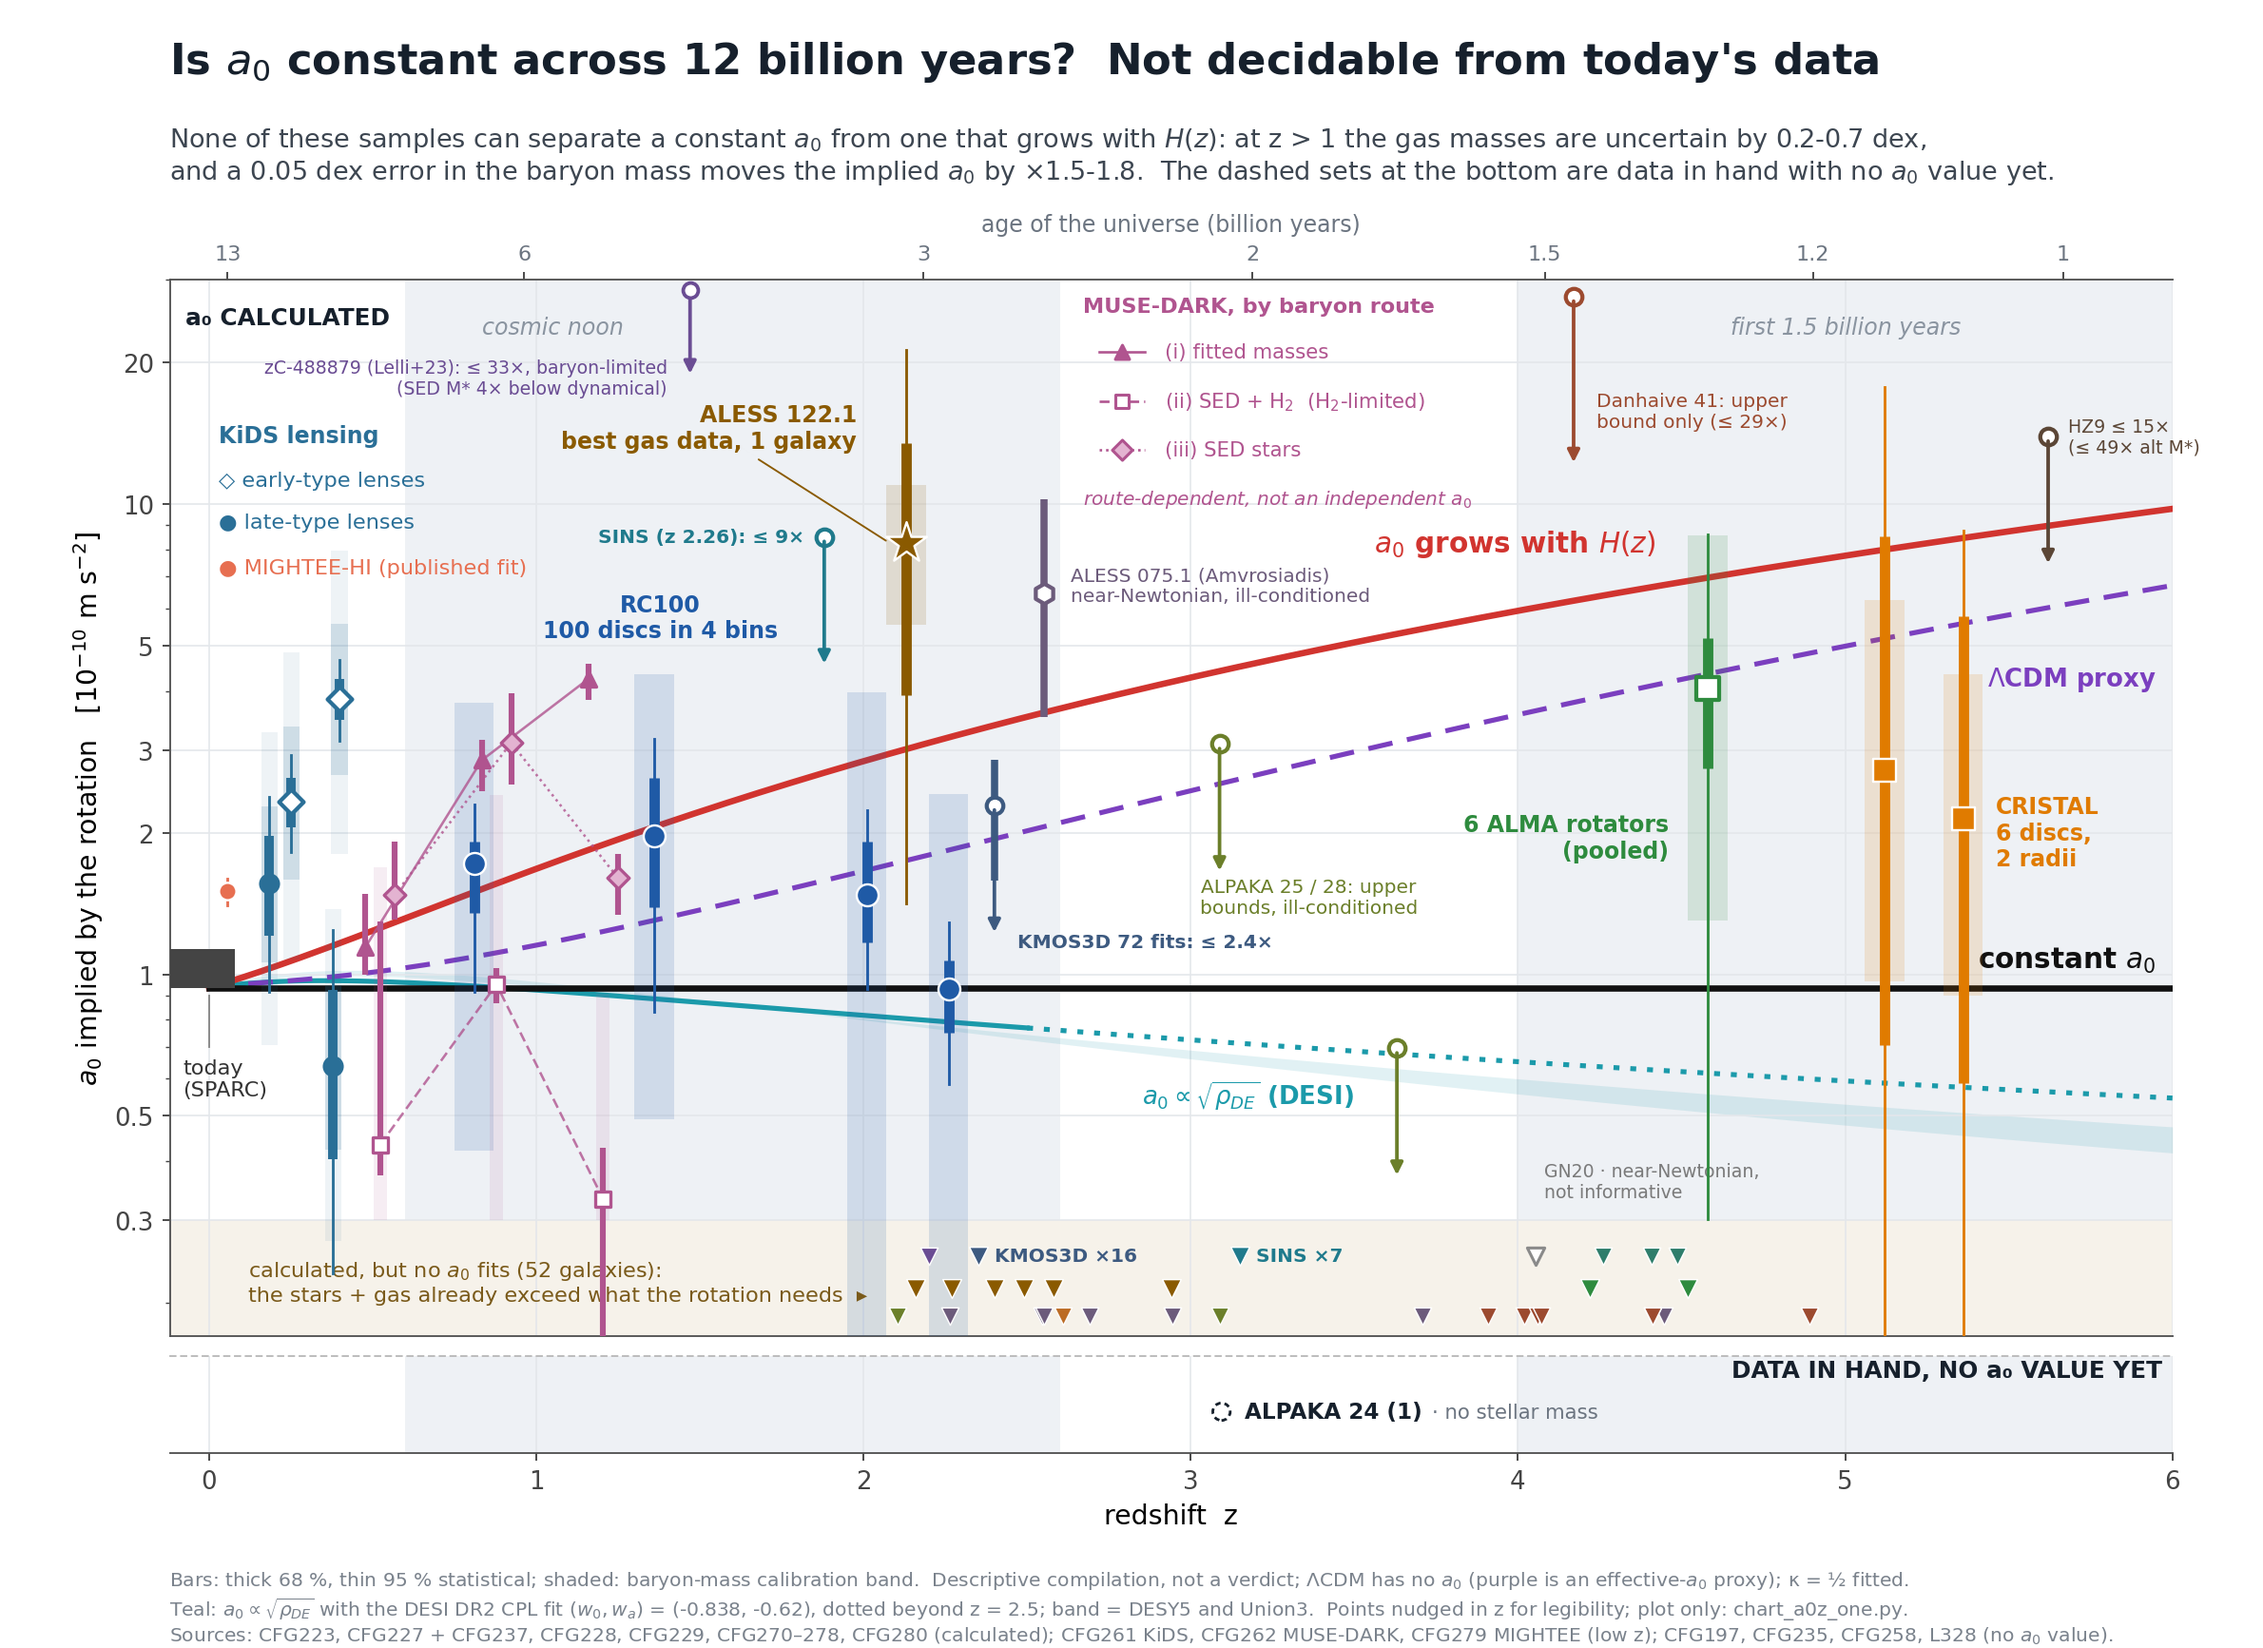
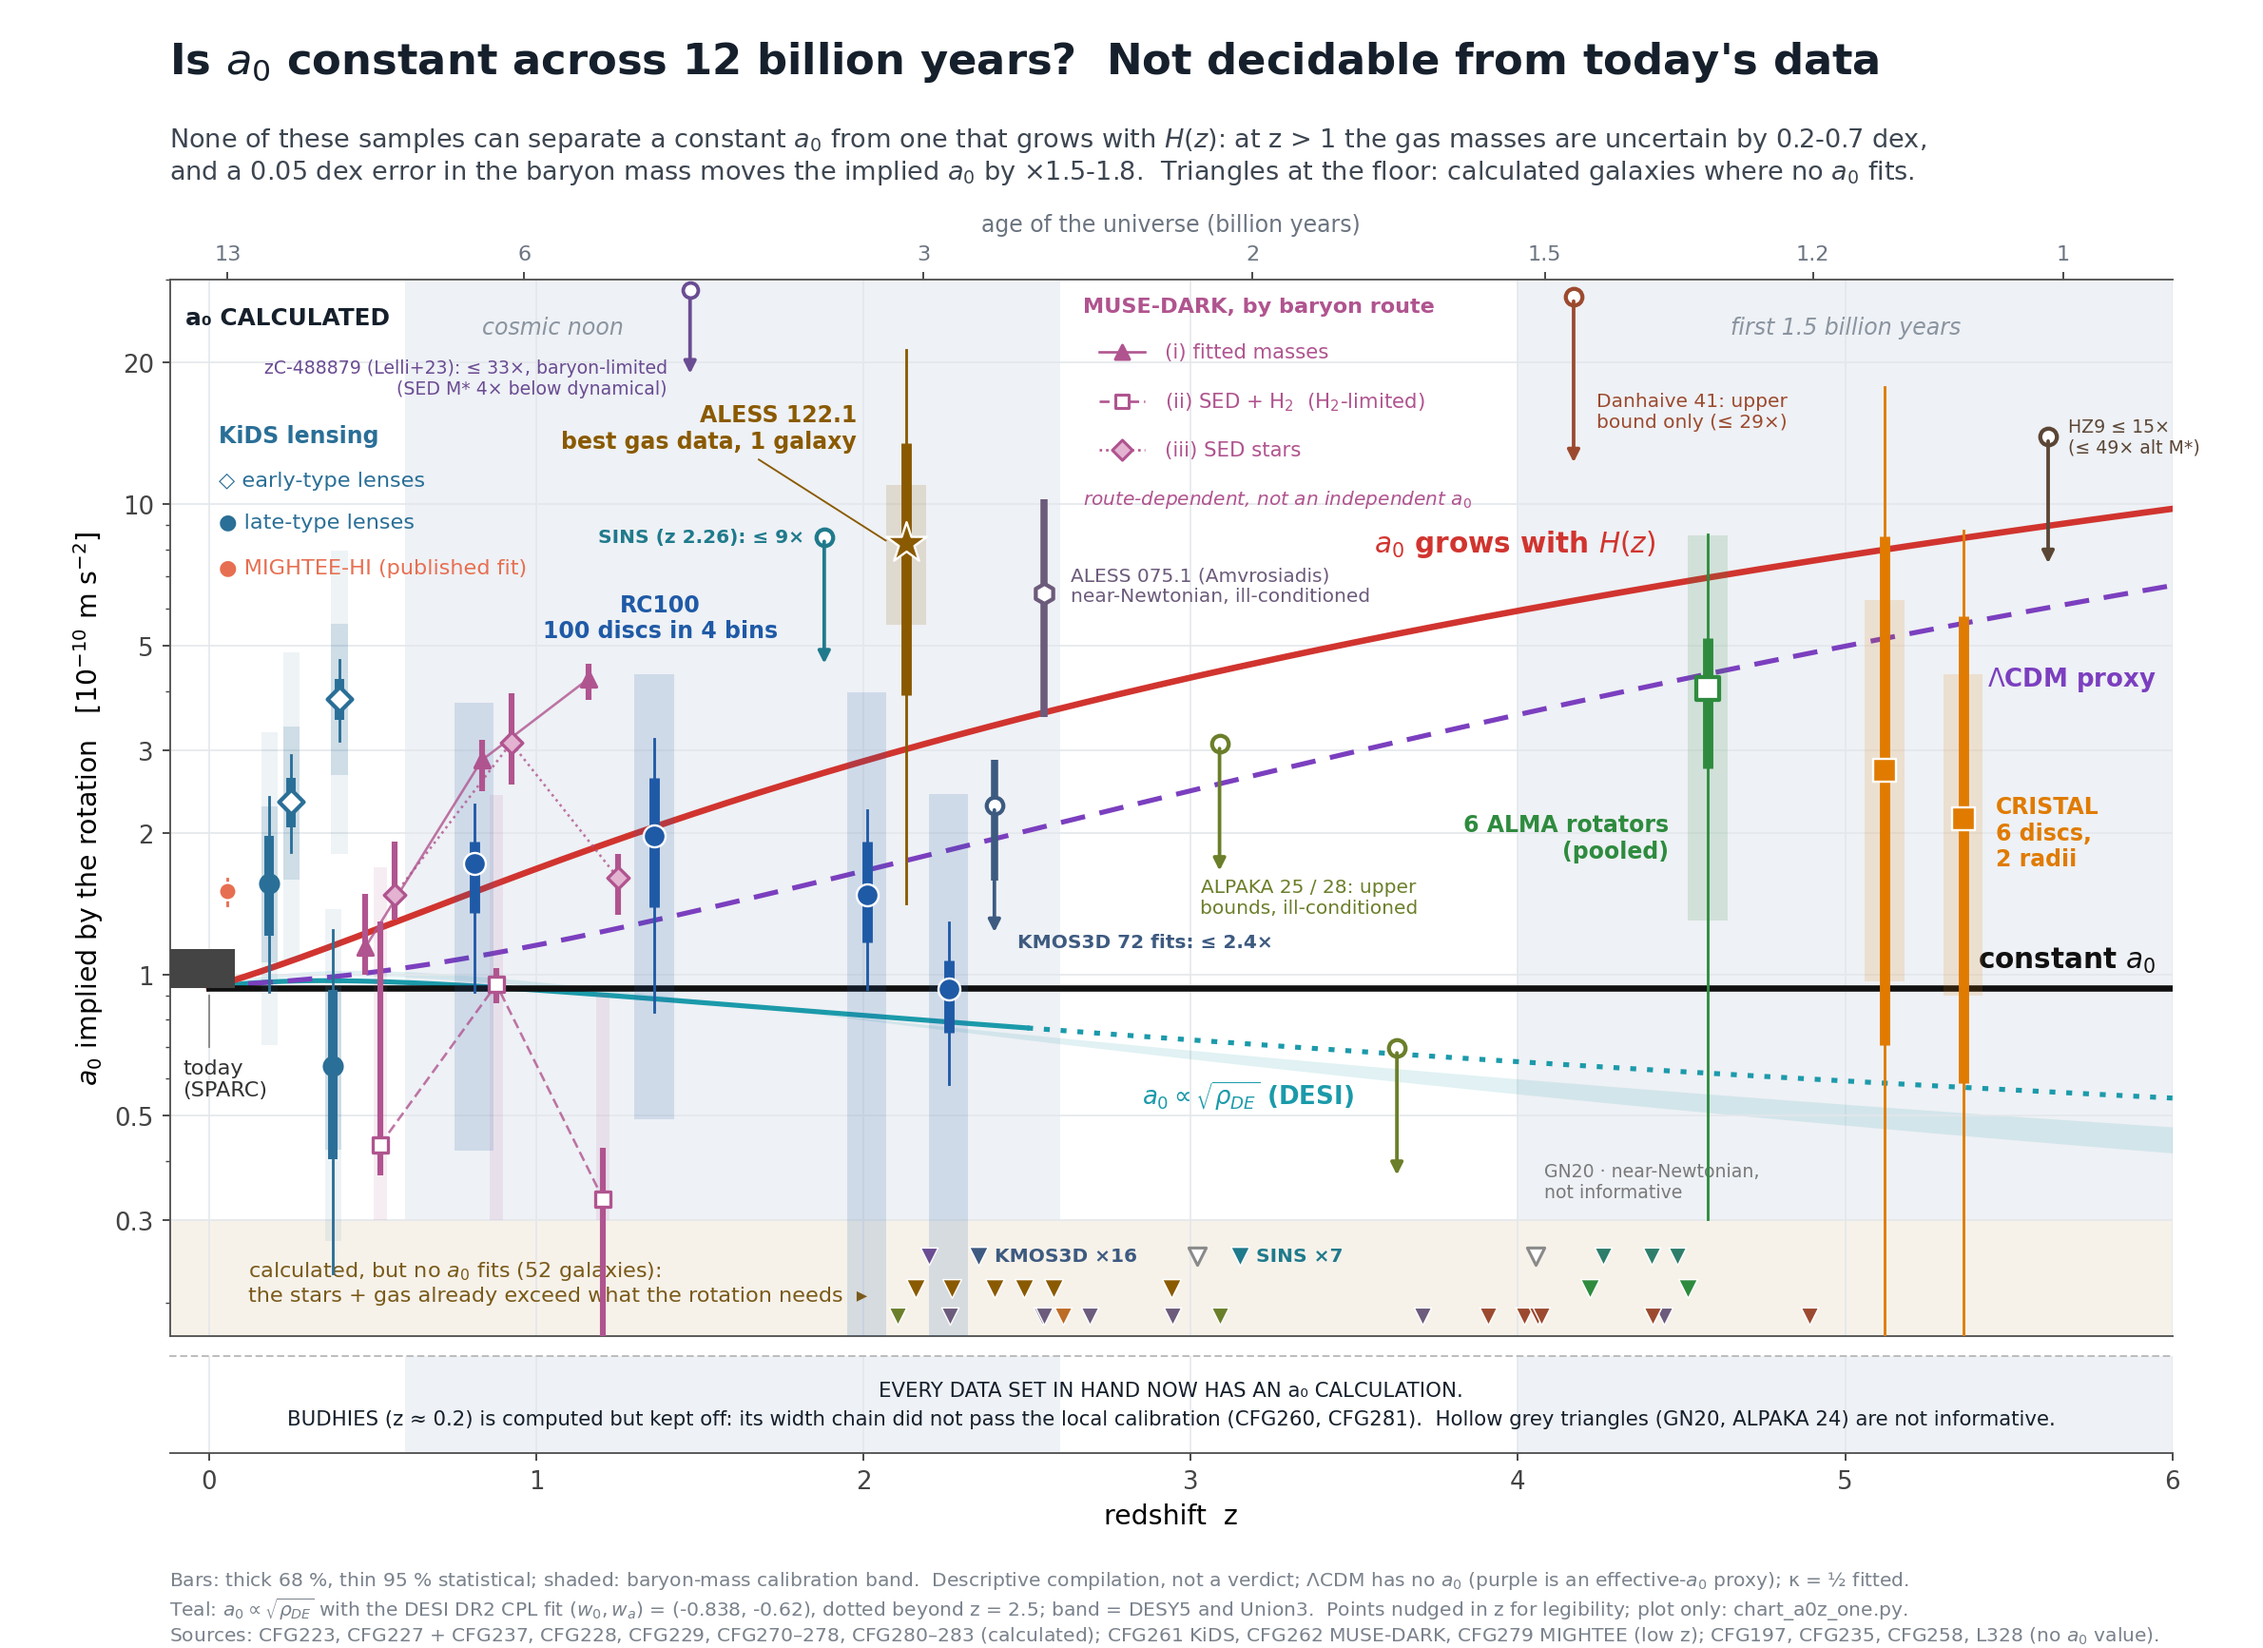
CHART one-chart: ALPAKA 24 from CFG283 (b20adfc0e) -- gas-only, measures alpha_CO not a0, hollow grey uninformative marker; the no-a0-yet strip is now empty and carries a closing note; floor count 52; 23/23 checks; plot only

diff --git a/campaign_fresh_gravity/CHART_a0z_rar_z0_5_2026-10-01/chart_a0z_one.py b/campaign_fresh_gravity/CHART_a0z_rar_z0_5_2026-10-01/chart_a0z_one.py
@@ -54,10 +54,10 @@ A275 = {r["object"]: r for r in csv.DictReader(open(os.path.join(CFG, "CFG275_pk
 A276 = {r["object"]: r for r in csv.DictReader(open(os.path.join(CFG, "CFG276_gn20", "cfg276_points_stageB.csv")))}   # CFG276 231d32a8c
 A278 = {r["object"]: r for r in csv.DictReader(open(os.path.join(CFG, "CFG278_lelli23_two_discs", "cfg278_points_stageB.csv")))}   # CFG278 9878bfcec
 A282 = {r["object"]: r for r in csv.DictReader(open(os.path.join(CFG, "CFG282_ro_stellar_masses", "cfg282_points_stageB.csv")))}   # CFG282 0f0ef264e
+A283 = {r["object"]: r for r in csv.DictReader(open(os.path.join(CFG, "CFG283_alpaka24_gas_only", "cfg283_points_stageB.csv")))}   # CFG283 b20adfc0e
 A273 = list(csv.DictReader(open(os.path.join(CFG, "CFG273_danhaive_gold41", "cfg273_points_stageB_relabelled.csv"))))   # CFG273 208944196 (relabelled: two ceiling rows)
 A274 = [r for r in csv.DictReader(open(os.path.join(CFG, "CFG274_amvrosiadis_eight_discs", "cfg274_points_stageB.csv"))) if "pooled" not in r["object"]]   # CFG274 255f07244
 TODO = [  # (label, zmin, zmax, short note)       sources: CFG227 'Listed, no point' + CFG237 + CFG258 + L328
-    ("ALPAKA 24 (1)", alp["24"], alp["24"], "no stellar mass"),
 ]
 
 P("chart_a0z_one: plot only")
@@ -74,6 +74,7 @@ check("CFG275 PKS 0529-549: chart row [CIG; CO] is a FLOOR (no root), 7 of 8 row
 check("CFG276 GN20: frozen row [stars+RT; Re] is a floor but uninformative (D 0.90) (231d32a8c)", A276["GN20 [stars+RT; Re]"]["no_root"] == "1")
 check("CFG278 Lelli+23: zC-400569 [stars+CO a=0.4] floor; zC-488879 [stars+CO a=0.4] <= 33.4 (9878bfcec)", A278["zC-400569 [stars+CO a=0.4]"]["no_root"] == "1" and abs(float(A278["zC-488879 [stars+CO a=0.4]"]["s_star"]) - 33.424) < 1e-2)
 check("CFG282 RO + SED M*: SGP38326-2 [gas+M* Ma19] and BRI1335-0417 [gas+M* T26] are floors (0f0ef264e)", A282["SGP38326-2 [gas+M* Ma19]"]["no_root"] == "1" and A282["BRI1335-0417 [gas+M* T26]"]["no_root"] == "1")
+check("CFG283 ALPAKA 24: gas-floor route vacuous (<= 27.6), Galactic route a floor (b20adfc0e)", A283["ALPAKA 24 ADF22.5 [gas floor]"]["no_root"] == "0" and A283["ALPAKA 24 ADF22.5 [gas Galactic]"]["no_root"] == "1")
 check("CFG273 Danhaive: 7 no root (relabelled file), pooled PALL <= 29.4 at z 4.17 (208944196)", sum(r["no_root"] == "1" for r in A273) == 7 and any("PALL" in r["object"] and abs(float(r["s_star"]) - 29.45) < 0.01 for r in A273), f"({sum(r['no_root'] == '1' for r in A273)} no root)")
 check("CFG272 ALPAKA: 13 and 23 no root; 25 <= 3.30 and 28 <= 0.74 upper bounds; 24 no M* (d993f02dc)", sorted(r["object"].split()[1] for r in A272 if r["no_root"] == "1") == ["13", "23"] and sorted(round(float(r["s_star"]), 2) for r in A272 if r["no_root"] == "0") == [0.74, 3.3], f"({len(A272)} rows)")
 check("CFG274 Amvrosiadis: 7 of 8 no root, ALESS 075.1 s* 6.89 (255f07244)", sum(r["no_root"] == "1" for r in A274) == 7 and any(r["no_root"] == "0" and abs(float(r["s_star"]) - 6.887) < 0.01 for r in A274), f"({sum(r['no_root'] == '1' for r in A274)} no root)")
@@ -211,6 +212,7 @@ zl8 = A278["zC-488879 [stars+CO a=0.4]"]   # <= 33.4: off the top of the axis; a
 ax.annotate("", xy=(1.47, 18.5), xytext=(1.47, 28.5), arrowprops=dict(arrowstyle="-|>", color=LLC, lw=1.6), zorder=6)
 ax.scatter([1.47], [28.5], marker="o", s=45, facecolor="white", edgecolor=LLC, linewidth=1.6, zorder=6, clip_on=False)
 ax.text(1.40, 18.5, "zC-488879 (Lelli+23): ≤ 33×, baryon-limited\n(SED M* 4× below dynamical)", color=LLC, fontsize=8, ha="right", va="center")
+ax.scatter([3.02], [0.252], marker="v", s=60, facecolor="white", edgecolor="#8a8a8a", lw=1.3, zorder=6)   # ALPAKA 24 (true z 3.094, nudged): measures alpha_CO, not a0; not counted
 N_NR = 2 + len(sins_floor) + len(ro_floor) + len(k3_floor) + 8 + sum(r["no_root"] == "1" for r in A274) + sum(r["no_root"] == "1" for r in A272) + sum(r["no_root"] == "1" and "pooled" not in r["object"] for r in A273)
 ax.text(0.12, 0.222, f"calculated, but no $a_0$ fits ({N_NR} galaxies):\nthe stars + gas already exceed what the rotation needs  ▸",
         fontsize=9.5, color="#7a5a1a", va="center")
@@ -285,7 +287,11 @@ for i, (lab, z0, z1, note) in enumerate(TODO):
     tb = t.get_window_extent(fig.canvas.get_renderer()); inv = sx.transData.inverted()
     xa = inv.transform((tb.x1, 0))[0] + 0.03 if right else inv.transform((tb.x0, 0))[0] - 0.03
     sx.text(xa, i, ("· " + note) if right else (note + " ·"), ha="left" if right else "right", va="center", fontsize=9, color=MUTED)
-sx.text(0.995, 0.975, "DATA IN HAND, NO a₀ VALUE YET", transform=sx.transAxes, fontsize=10.5, color=INK, fontweight="bold", ha="right", va="top")
+if TODO:
+    sx.text(0.995, 0.975, "DATA IN HAND, NO a₀ VALUE YET", transform=sx.transAxes, fontsize=10.5, color=INK, fontweight="bold", ha="right", va="top")
+else:
+    sx.text(0.5, 0.5, "EVERY DATA SET IN HAND NOW HAS AN a₀ CALCULATION.\nBUDHIES (z ≈ 0.2) is computed but kept off: its width chain did not pass the local calibration (CFG260, CFG281).  "
+            "Hollow grey triangles (GN20, ALPAKA 24) are not informative.", transform=sx.transAxes, fontsize=9, color=INK, ha="center", va="center", linespacing=1.6)
 sx.set_xlabel("redshift  z", fontsize=12)
 sx.set_xticks(range(7)); sx.grid(True, axis="x", color="#e4e7eb", lw=0.7, zorder=0)
 for x in range(7): ax.axvline(x, color="#e4e7eb", lw=0.7, zorder=0)
@@ -294,10 +300,10 @@ for x in range(7): ax.axvline(x, color="#e4e7eb", lw=0.7, zorder=0)
 fig.text(0.075, 0.955, "Is $a_0$ constant across 12 billion years?  Not decidable from today's data",
          fontsize=19, fontweight="bold", color=INK)
 fig.text(0.075, 0.905, "None of these samples can separate a constant $a_0$ from one that grows with $H(z)$: at z > 1 the gas masses are uncertain by 0.2-0.7 dex,\n"
-         "and a 0.05 dex error in the baryon mass moves the implied $a_0$ by ×1.5-1.8.  The dashed sets at the bottom are data in hand with no $a_0$ value yet.",
+         "and a 0.05 dex error in the baryon mass moves the implied $a_0$ by ×1.5-1.8.  Triangles at the floor: calculated galaxies where no $a_0$ fits.",
          fontsize=11.5, color="#3d4651", va="center")
 fig.text(0.075, 0.004, "Bars: thick 68 %, thin 95 % statistical; shaded: baryon-mass calibration band.  Descriptive compilation, not a verdict; "
-         "ΛCDM has no $a_0$ (purple is an effective-$a_0$ proxy); κ = ½ fitted.\nTeal: $a_0 \\propto \\sqrt{\\rho_{DE}}$ with the DESI DR2 CPL fit ($w_0, w_a$) = (-0.838, -0.62), dotted beyond z = 2.5; band = DESY5 and Union3.  Points nudged in z for legibility; plot only: chart_a0z_one.py.\nSources: CFG223, CFG227 + CFG237, CFG228, CFG229, CFG270–278, CFG280 (calculated); CFG261 KiDS, CFG262 MUSE-DARK, CFG279 MIGHTEE (low z); CFG197, CFG235, CFG258, L328 (no $a_0$ value).",
+         "ΛCDM has no $a_0$ (purple is an effective-$a_0$ proxy); κ = ½ fitted.\nTeal: $a_0 \\propto \\sqrt{\\rho_{DE}}$ with the DESI DR2 CPL fit ($w_0, w_a$) = (-0.838, -0.62), dotted beyond z = 2.5; band = DESY5 and Union3.  Points nudged in z for legibility; plot only: chart_a0z_one.py.\nSources: CFG223, CFG227 + CFG237, CFG228, CFG229, CFG270–278, CFG280–283 (calculated); CFG261 KiDS, CFG262 MUSE-DARK, CFG279 MIGHTEE (low z); CFG197, CFG235, CFG258, L328 (no $a_0$ value).",
          fontsize=8.6, color="#7a828c")
 fig.savefig(os.path.join(HERE, "chart_a0z_one_2026-10-01.png"), dpi=170)
 P(f"{sum(CHECKS)}/{len(CHECKS)} checks pass; wrote chart_a0z_one_2026-10-01.png")

diff --git a/campaign_fresh_gravity/CHART_a0z_rar_z0_5_2026-10-01/README.md b/campaign_fresh_gravity/CHART_a0z_rar_z0_5_2026-10-01/README.md
@@ -67,3 +67,5 @@ Layout: the strip now shrinks with its row count, and the main panel takes the f
 - **SGP38326-1: not drawn.** Its frozen row is a root s* ≤ 22.1 (ill-conditioned, recipe ±0.72 dex), and the other branch is a floor by only 0.013 dex.
 
 All are near-Newtonian (y 18–90), so these are statements of baryon excess, not a₀ values. The Ma+19 masses are provisional (read from the VizieR HTML). The floor count is now 52. 22/22 checks pass.
+
+**ALPAKA 24 (CFG283, b20adfc0e), gas only, nothing fetched.** At the floor conversion (α_CO 0.8, a baryon lower limit) the root is s* ≤ 27.6, vacuous under the frozen rule. At the Galactic conversion (4.36) it is a FLOOR (D 0.746). The dynamics allow α_CO ≲ 3.25, and the conversion each law needs is 3.0 (FLAT) against 2.2 (H(z)), so the row measures the gas conversion, not a₀. Drawn as a hollow grey "not informative" triangle at z 3.02 (true z 3.094), not counted, like GN20. **With this, every data set in hand has an a₀ calculation.** The strip now carries a closing note in place of rows, and the subtitle's strip sentence was replaced with the floor explanation. The floor count stays 52. 23/23 checks pass.
